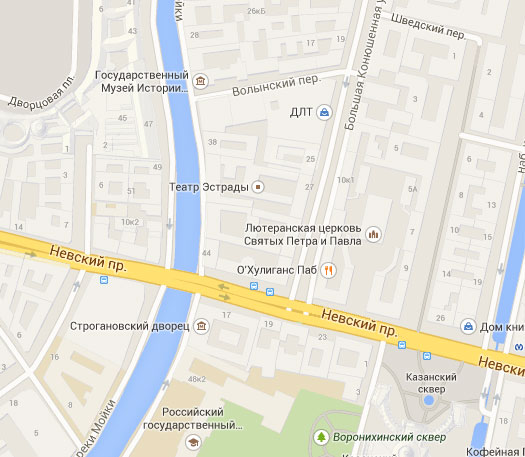
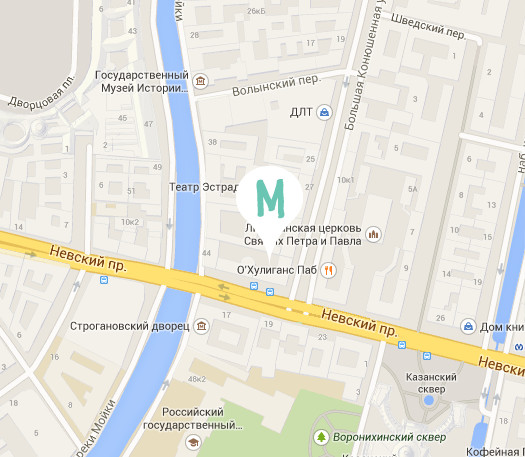
yandex-map

diff --git a/index.html b/index.html
@@ -228,7 +228,7 @@
       </section>
       <section class="contacts">
         <div class="contacts__wrapper">
-          <div class="contacts__map"></div>
+          <div class="contacts__map" id="map"></div>
           <div class="contacts__title">
             <h2>Контакты</h2>
             <span class="contacts__title-icon">
@@ -321,5 +321,6 @@
         </div>
     </footer>
   <script src="js/script.js"></script>
+  <script type="text/javascript" charset="utf-8" async src="https://api-maps.yandex.ru/services/constructor/1.0/js/?sid=vtSH03JZfw8P0cuIUr6EBNYvvfAlDOhE&amp;width=100%&amp;lang=ru_RU&amp;sourceType=constructor&amp;scroll=false&amp;id=map""></script>
   </body>
 </html>

diff --git a/less/blocks/contacts.less b/less/blocks/contacts.less
@@ -111,7 +111,7 @@
   margin: 0 auto 39px;
 
   background-color: transparent;
-  background-image: url("../../img/map-mobile@1x.jpg");
+  background-image: url("../../img/map-tablet@1x.jpg");
   background-repeat: no-repeat;
   background-position: center;
 }
